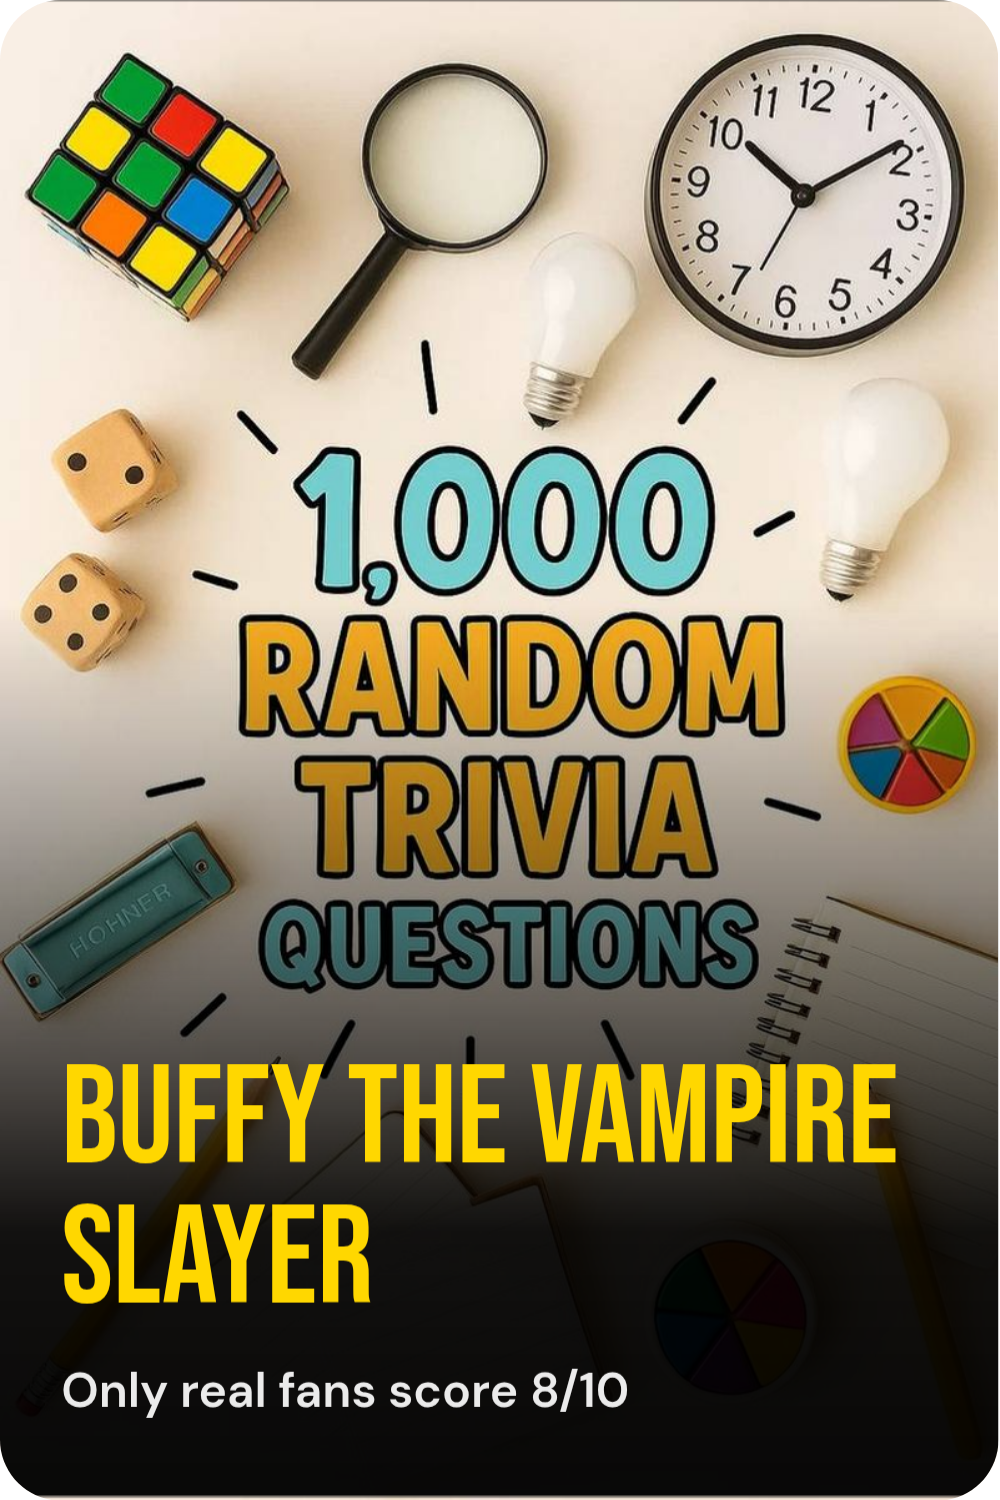
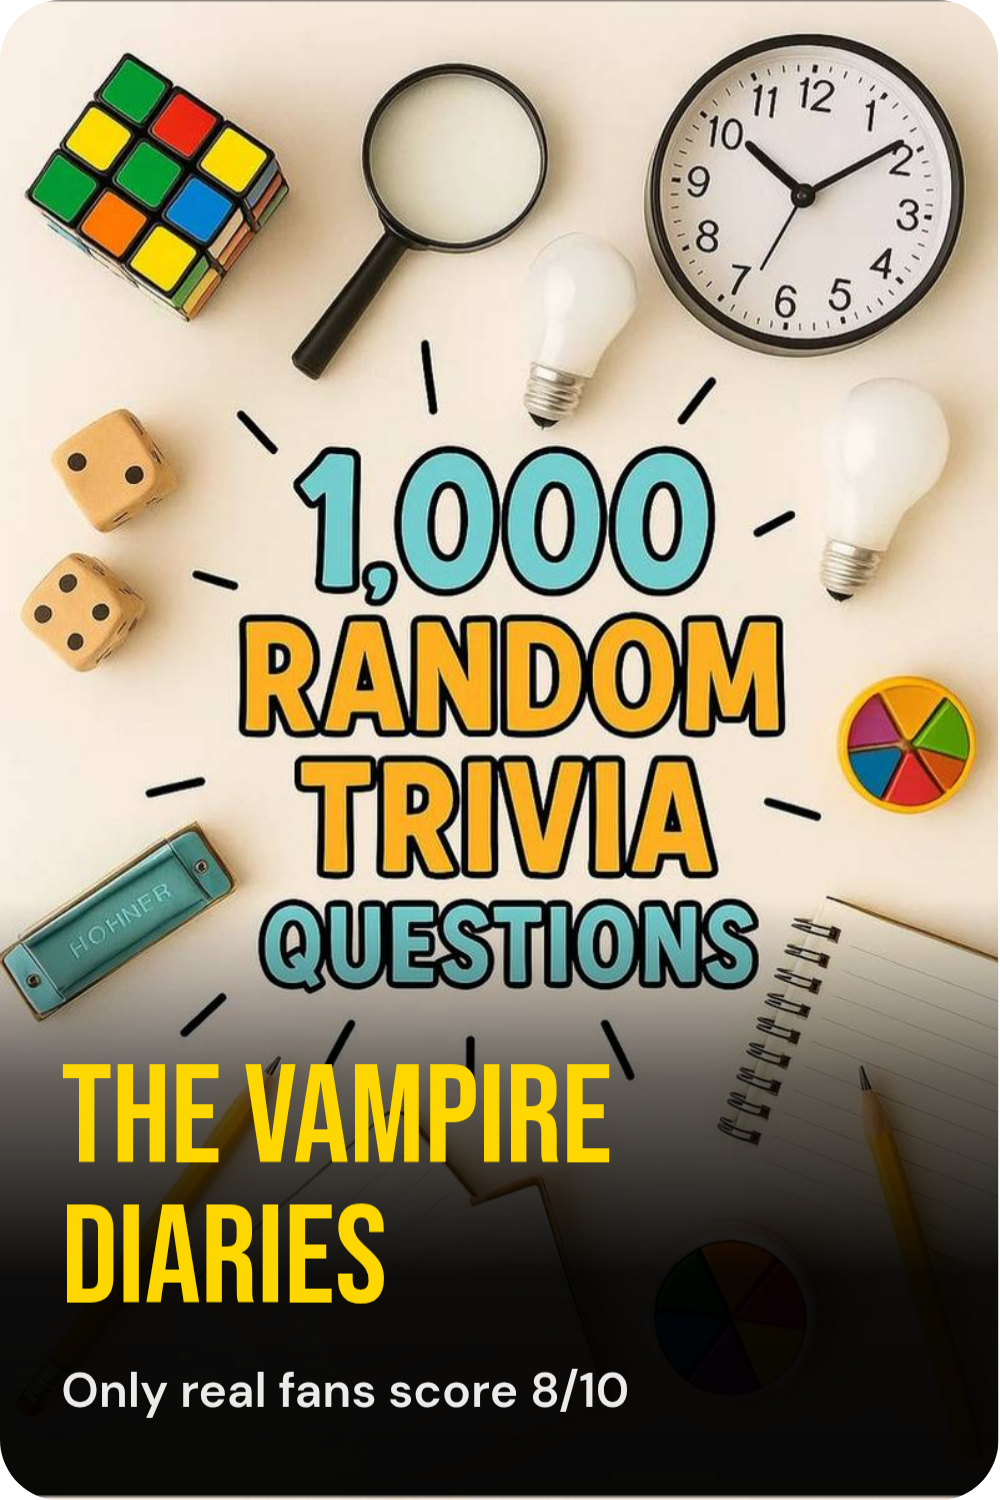
commit

Changed region(s): [[0.0, 0.4293, 1.0, 0.8893]]

diff --git a/scripts/get-theme.js b/scripts/get-theme.js
@@ -122,4 +122,22 @@ function getEveningTheme() {
   return getThemeForSlot(dayIndex, 77);
 }
 
-module.exports = { getMorningTheme, getEveningTheme };
+function buildThemeData(theme, templateNum) {
+  const boardEnvKey = BOARD_MAP[theme.category] || 'PINTEREST_BOARD_GENERAL';
+  return {
+    slug: theme.slug,
+    title: theme.title,
+    category: theme.category,
+    template: templateNum,
+    hook: HOOKS[templateNum],
+    pinTitle: PIN_TITLES[templateNum](theme.title),
+    description: (DESCRIPTIONS[theme.category] || DESCRIPTIONS.General)(theme.title),
+    boardName: BOARD_NAMES[theme.category] || 'General Trivia',
+    boardId: process.env[boardEnvKey] || process.env.PINTEREST_BOARD_GENERAL,
+    palette: PALETTE[theme.category] || 0,
+    themeUrl: `https://triviagauntlet.app/themes/${theme.slug}.html`,
+    survivalUrl: `https://triviagauntlet.app/survival.html?theme=${theme.slug}`,
+  };
+}
+
+module.exports = { getMorningTheme, getEveningTheme, buildThemeData };

diff --git a/scripts/preview.js b/scripts/preview.js
@@ -1,6 +1,6 @@
 // Preview mode — generates morning and evening images locally, no Pinterest posting
-// Run: node scripts/preview.js
-// Then open daily-content/preview/ to see both images
+// Run: node scripts/preview.js                        (uses today's auto theme)
+// Run: node scripts/preview.js vampire-diaries        (forces a specific theme)
 
 const path = require('path');
 const fs = require('fs');
@@ -8,9 +8,20 @@ const { getMorningTheme, getEveningTheme } = require('./get-theme');
 const { generatePin } = require('./generate-pin');
 const { screenshotSurvival } = require('./screenshot-survival');
 
+function overrideTheme(theme, slug) {
+  const themes = JSON.parse(fs.readFileSync(path.join(__dirname, '..', 'data', 'themes.json'), 'utf8'));
+  const found = themes.find(t => t.slug === slug);
+  if (!found) { console.error(`Theme "${slug}" not found in data/themes.json`); process.exit(1); }
+
+  const { buildThemeData } = require('./get-theme');
+  return buildThemeData(found, theme.template);
+}
+
 async function main() {
-  const morning = getMorningTheme();
-  const evening = getEveningTheme();
+  const slug = process.argv[2];
+  let morning = getMorningTheme();
+  let evening = getEveningTheme();
+  if (slug) { morning = overrideTheme(morning, slug); evening = overrideTheme(evening, slug); }
 
   const outDir = path.join(__dirname, '..', 'daily-content', 'preview');
   fs.mkdirSync(outDir, { recursive: true });

diff --git a/scripts/generate-pin.js b/scripts/generate-pin.js
@@ -27,6 +27,12 @@ async function generatePin(theme, outputPath) {
       setPal(t.palette);
       render();
 
+      // Tighten scrim — dark overlay only at bottom where title sits
+      const p = PALS[t.palette];
+      [1, 2, 3].forEach(n => {
+        document.getElementById('scrim' + n).style.background =
+          `linear-gradient(to top, rgba(${p.base},.97) 0%, rgba(${p.base},.95) 15%, rgba(${p.base},.6) 28%, rgba(${p.base},0) 40%)`;
+      });
     }, theme);
 
     await new Promise(r => setTimeout(r, 500));

diff --git a/scripts/screenshot-survival.js b/scripts/screenshot-survival.js
@@ -9,8 +9,8 @@ async function screenshotSurvival(theme, outputPath) {
 
   try {
     const page = await browser.newPage();
-    // Portrait viewport — good for Pinterest
-    await page.setViewport({ width: 390, height: 844, deviceScaleFactor: 2 });
+    // 500x750 at scale 2 = exactly 1000x1500px (Pinterest 2:3 ratio)
+    await page.setViewport({ width: 500, height: 750, deviceScaleFactor: 2 });
 
     await page.goto(theme.survivalUrl, { waitUntil: 'networkidle0', timeout: 30000 });
     await new Promise(r => setTimeout(r, 2000));